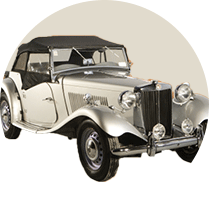
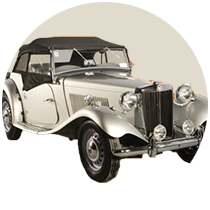
booldook

diff --git a/public/css/main.css b/public/css/main.css
@@ -33,23 +33,19 @@ margin-bottom:1%;}
 .bg > img {margin-bottom:-15%;}
 .tire_box {width:100%; position: absolute; text-align:center; transform:translateY(-65%); border:5px solid #0f0;}
 .tire {width:50%; max-width:450px; margin:0 auto;}
-.car_box {width:100%; position:absolute; border:5px solid #00f; top:50%;}
+.car_box {width:100%; position:absolute; top:50%; transform:translateY(-50%);}
 .che_left {position: absolute; top:50%; transform:translateY(-50%); left:33%; font-size: 3.5rem; color:#4b6054; cursor: pointer;}
 .che_right {position: absolute; top:50%; transform:translateY(-50%); right:33%;font-size: 3.5rem; color:#4b6054;cursor: pointer;}
-.car_box .car_img {position:relative; left:60%;}
-.car_img  > li {animation-fill-mode: forwards; animation-timing-function: linear; width:20%; position: absolute; transform:translateY(-50%); border:1px solid #ff0;} 
+.car_box .car_img {position:relative; left:40%;}
+.car_img  > li {width:20%; position: absolute; transform:translateY(-50%); text-align:center;} 
 
 .search_box {width:50%; height:4%;  border:3px solid #c6d2c9; 
 line-height:4%; position: absolute; top:90%; left:25%;}
 .search_text {float:left;  padding:2% 1.5%; color:#abadae; }
 .search {float:right; background-color: #c6d2c9; padding:1% 2%; cursor: pointer;}
 .search > i {color:#fff;}
-@keyframes carAni{
-	0%{transform:scale(0.1); opacity:0.3;}
-	50%{transform:scale(0.8); opacity:0.7;}
-	100%{opacity:1;}
-	
-}
+
+
 
 .history {width:100%; height:90%; position: relative; margin-bottom:10%; border-top: 1px solid #82a69e;}
 .wrap { width:100%; height:100%;}

diff --git a/public/js/main.js b/public/js/main.js
@@ -57,11 +57,14 @@ var carTemp = [];
 $(".car_img > li").each(function(i){
 	car[i] = $(this).remove();
 });
-var carNum = 0; 
+var carNum = 3; 
 var carEnd = car.length - 1;
+var scale = [];
+var left = 0;
+var interval = null;
 
 function carInit() {
-	console.log(car);
+	$(".car_img").empty();
 	carTemp[3] = carNum;
 	for(var i=3; i>0; i--) {
 		if(carTemp[i] - 1 >= 0) carTemp[i-1] = carTemp[i] - 1;
@@ -73,11 +76,28 @@ function carInit() {
 	}
 	for(var i=0; i<7; i++) {
 		obj = car[carTemp[i]].clone().appendTo(".car_img");
-		obj.css({"left":(i-3)*20+"%"});
-		console.log(obj.children("img").attr("src"), obj.css("left"));
+		left = (i-3)*20+"%";
+		scale[i] = (1 - (Math.abs(i-3)*0.3)).toFixed(2);
+		obj.css({"left":left});
+		obj.find("img").css({"width":(100*scale[i])+"%"});
 	}
+	console.log(scale);
 }
 carInit();
+
+function carAni() {
+	for(var i=0; i<7; i++) {
+		$(".car_img > li").eq(i).find("img").stop().animate({"width":(100*scale[i-1])+"%"}, 1000);
+	}
+	$(".car_box").stop().animate({"left":"-20%"}, 1000, function(){
+		if(carNum == carEnd) carNum = 0;
+		else carNum++;
+		carInit();
+		$(this).css({"left":0});
+	});
+}
+
+interval = setInterval(carAni, 3000);
 
  /*
  var cNum = 0;	//현재의 index

diff --git a/public/main/main.html b/public/main/main.html
@@ -131,11 +131,11 @@
             </div>
             <div class="car_box">
                 <ul class="car_img">
-                    <li><img src="../img/car1.png"></li>
-                    <li><img src="../img/car2.png"></li>
-                    <li><img src="../img/car3.png"></li>
-                    <li><img src="../img/car4.png"></li>
-                    <li><img src="../img/car5.png"></li>
+                    <li><img src="../img/car1.png" class="img"></li>
+                    <li><img src="../img/car2.png" class="img"></li>
+                    <li><img src="../img/car3.png" class="img"></li>
+                    <li><img src="../img/car4.png" class="img"></li>
+                    <li><img src="../img/car5.png" class="img"></li>
                 </ul>  
             </div>
             <div class="che_left"><i class="fa fa-chevron-left" aria-hidden="true"></i></div>
